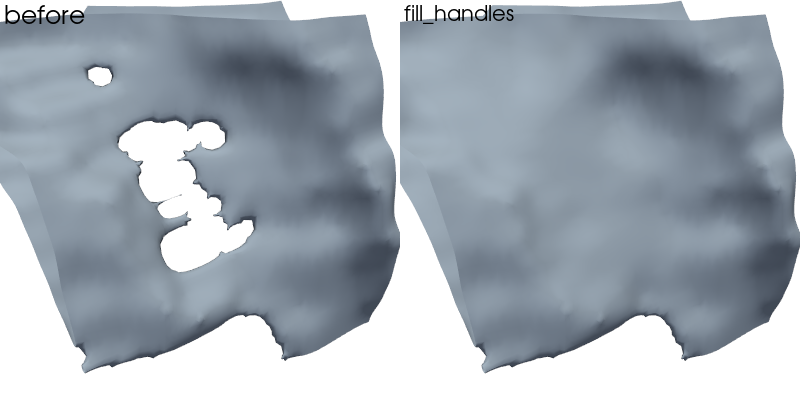
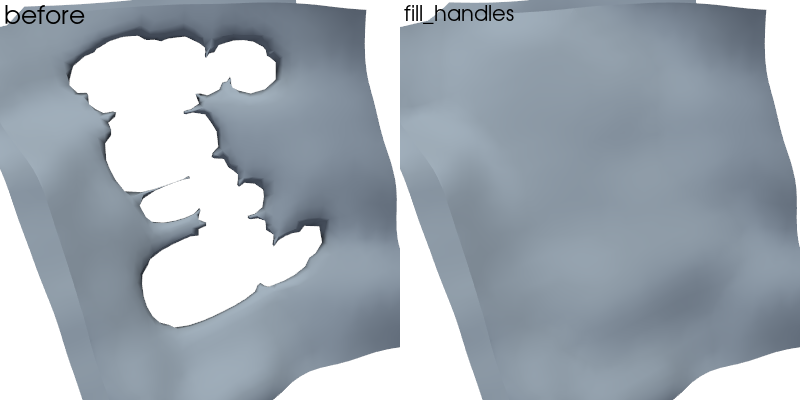
readme: fill_handles with tightened loops
Regenerate the handles figure with imagemesh 23b733a, which spans each
membrane along the shortest loop around the tunnel. Handles at the volume
faces of the readme crop are real (they remain in a 4 um crop), so the
note on cut artefacts says that they cannot be told apart and are closed.

diff --git a/images/make_figures.py b/images/make_figures.py
@@ -221,7 +221,7 @@ def pinches(raw, work, r=8 * DX, view=(-1.0, 1.0, 1.0)):
 
 
 # a cell with handles (well inside the crop), shown around its shortest closed
-# handle; handles of cells cut by the crop faces can be artefacts of the cut
+# handle
 HANDLE_CELLS = [46]
 
 

diff --git a/readme.md b/readme.md
@@ -85,11 +85,11 @@ Voxels of a cell that touch only at an edge or corner (*pinches*) give non-manif
 
 <img src='images/pinches.png' width='700'>
 
-`fill_handles` closes handles (tunnels) through a cell with a thin membrane:
+`fill_handles` closes handles (tunnels) through a cell with a thin membrane, spanned along the shortest loop around each tunnel:
 
 <img src='images/handles.png' width='500'>
 
-Handles of cells that are cut by the faces of the volume can be artefacts of the cut, and are then closed as well.
+A cell cut by the faces of the volume can show tunnels that it does not have (e.g. a tube cut across). Inside the volume these cannot be told apart from real tunnels, so they are closed as well. On the crop above, the handles at the volume faces are real: they remain in a crop twice as large.
 
 ### ECS share
 With `surface: ecs_share`, all cell–ECS interfaces are moved by a common offset until the ECS takes that share of the volume. The bounding box is kept, and cells and gaps stay at least `ecs_min_width` thick. Below, the ECS share of a dense crop is lowered from 23 % to 18 % (right: zoomed region, with the voxel grid).
